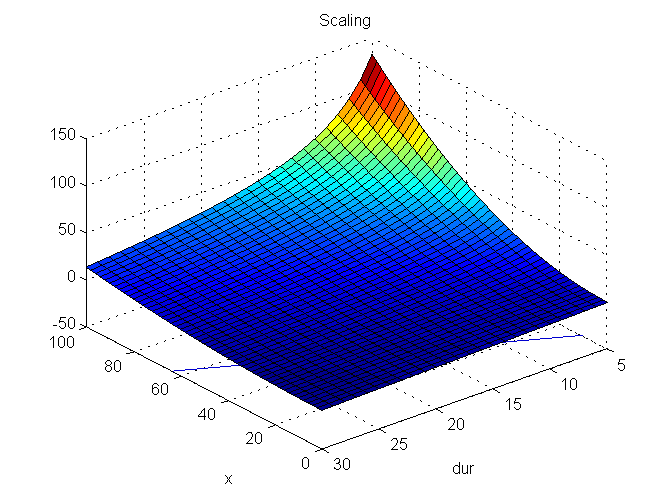
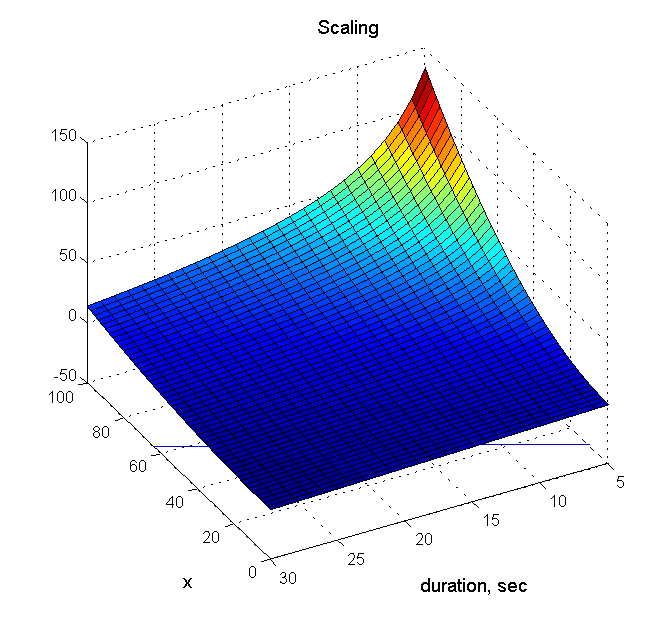
Reordering and clarification
new images with duration info on them and bigger font

diff --git a/presentation/algorithm.tex b/presentation/algorithm.tex
@@ -17,7 +17,7 @@
 		xs_i &= \cfrac{x_i^2}{15 * duration} - 0.3 * duration 
 			&&\parbox{10em}{\footnotesize scalling accounts for \\ different durations}\\
 		f_i  &= \left(\cfrac{xs_i}{1+|xs_i|}\right)^3
-			&& \parbox{10em}{\footnotesize maps $[-\inf,\inf]$ to $[-1, 1]$}\\
+			&& \parbox{10em}{\footnotesize maps $[-\infty,\infty]$ to $[-1, 1]$}\\
 		fn_i &= \cfrac{f_i + 1}{2}
 			&& \parbox{10em}{\footnotesize maps $[-1,1]$ to $[0,1]$}\\
 		rating &= 100 * \sqrt{ \sum\limits_{i \in sensors}{w_i fn_i^2} } 
@@ -26,7 +26,7 @@
 	Selection process:
 	\begin{itemize}
 		\item Only videos starting after the last selected video ends are considered.
-		\item Top-rated video is selected for upload
+		\item Lowest-rated video is selected for upload
 	\end{itemize}
 \end{frame}
 

diff --git a/presentation/conclusion.tex b/presentation/conclusion.tex
@@ -1,4 +1,13 @@
 \begin{frame}
+	\frametitle{Demo}
+		\begin{figure}[!t]
+			\centering
+			\includegraphics[width=\linewidth,height=.9\textheight,keepaspectratio]{server.png}
+			\label{fig:server}
+		\end{figure}
+\end{frame}
+
+\begin{frame}
 	\frametitle{Future work}
 	\begin{itemize}
 		\item Web interface
@@ -8,15 +17,6 @@
 		\item Region of Interest
 		\item Limited chunk size \& Streaming
 	\end{itemize}
-\end{frame}
-
-\begin{frame}
-	\frametitle{Demo}
-		\begin{figure}[!t]
-			\centering
-			\includegraphics[width=\linewidth,height=.9\textheight,keepaspectratio]{server.png}
-			\label{fig:server}
-		\end{figure}
 \end{frame}
 
 \begin{frame}

diff --git a/presentation/presentation.tex b/presentation/presentation.tex
@@ -124,15 +124,15 @@
 
 	\subsection{Client application}
 	\input{client}
+	
+	\subsection{Metadata format}
+	\input{metadata}
 
 	\subsection{Server application}
 	\input{server}
 
 	\subsection{Client-server interaction}
 	\input{exchange}
-
-	\subsection{Metadata format}
-	\input{metadata}
 
 \section{Video Director Algorithm}
 \input{algorithm}
